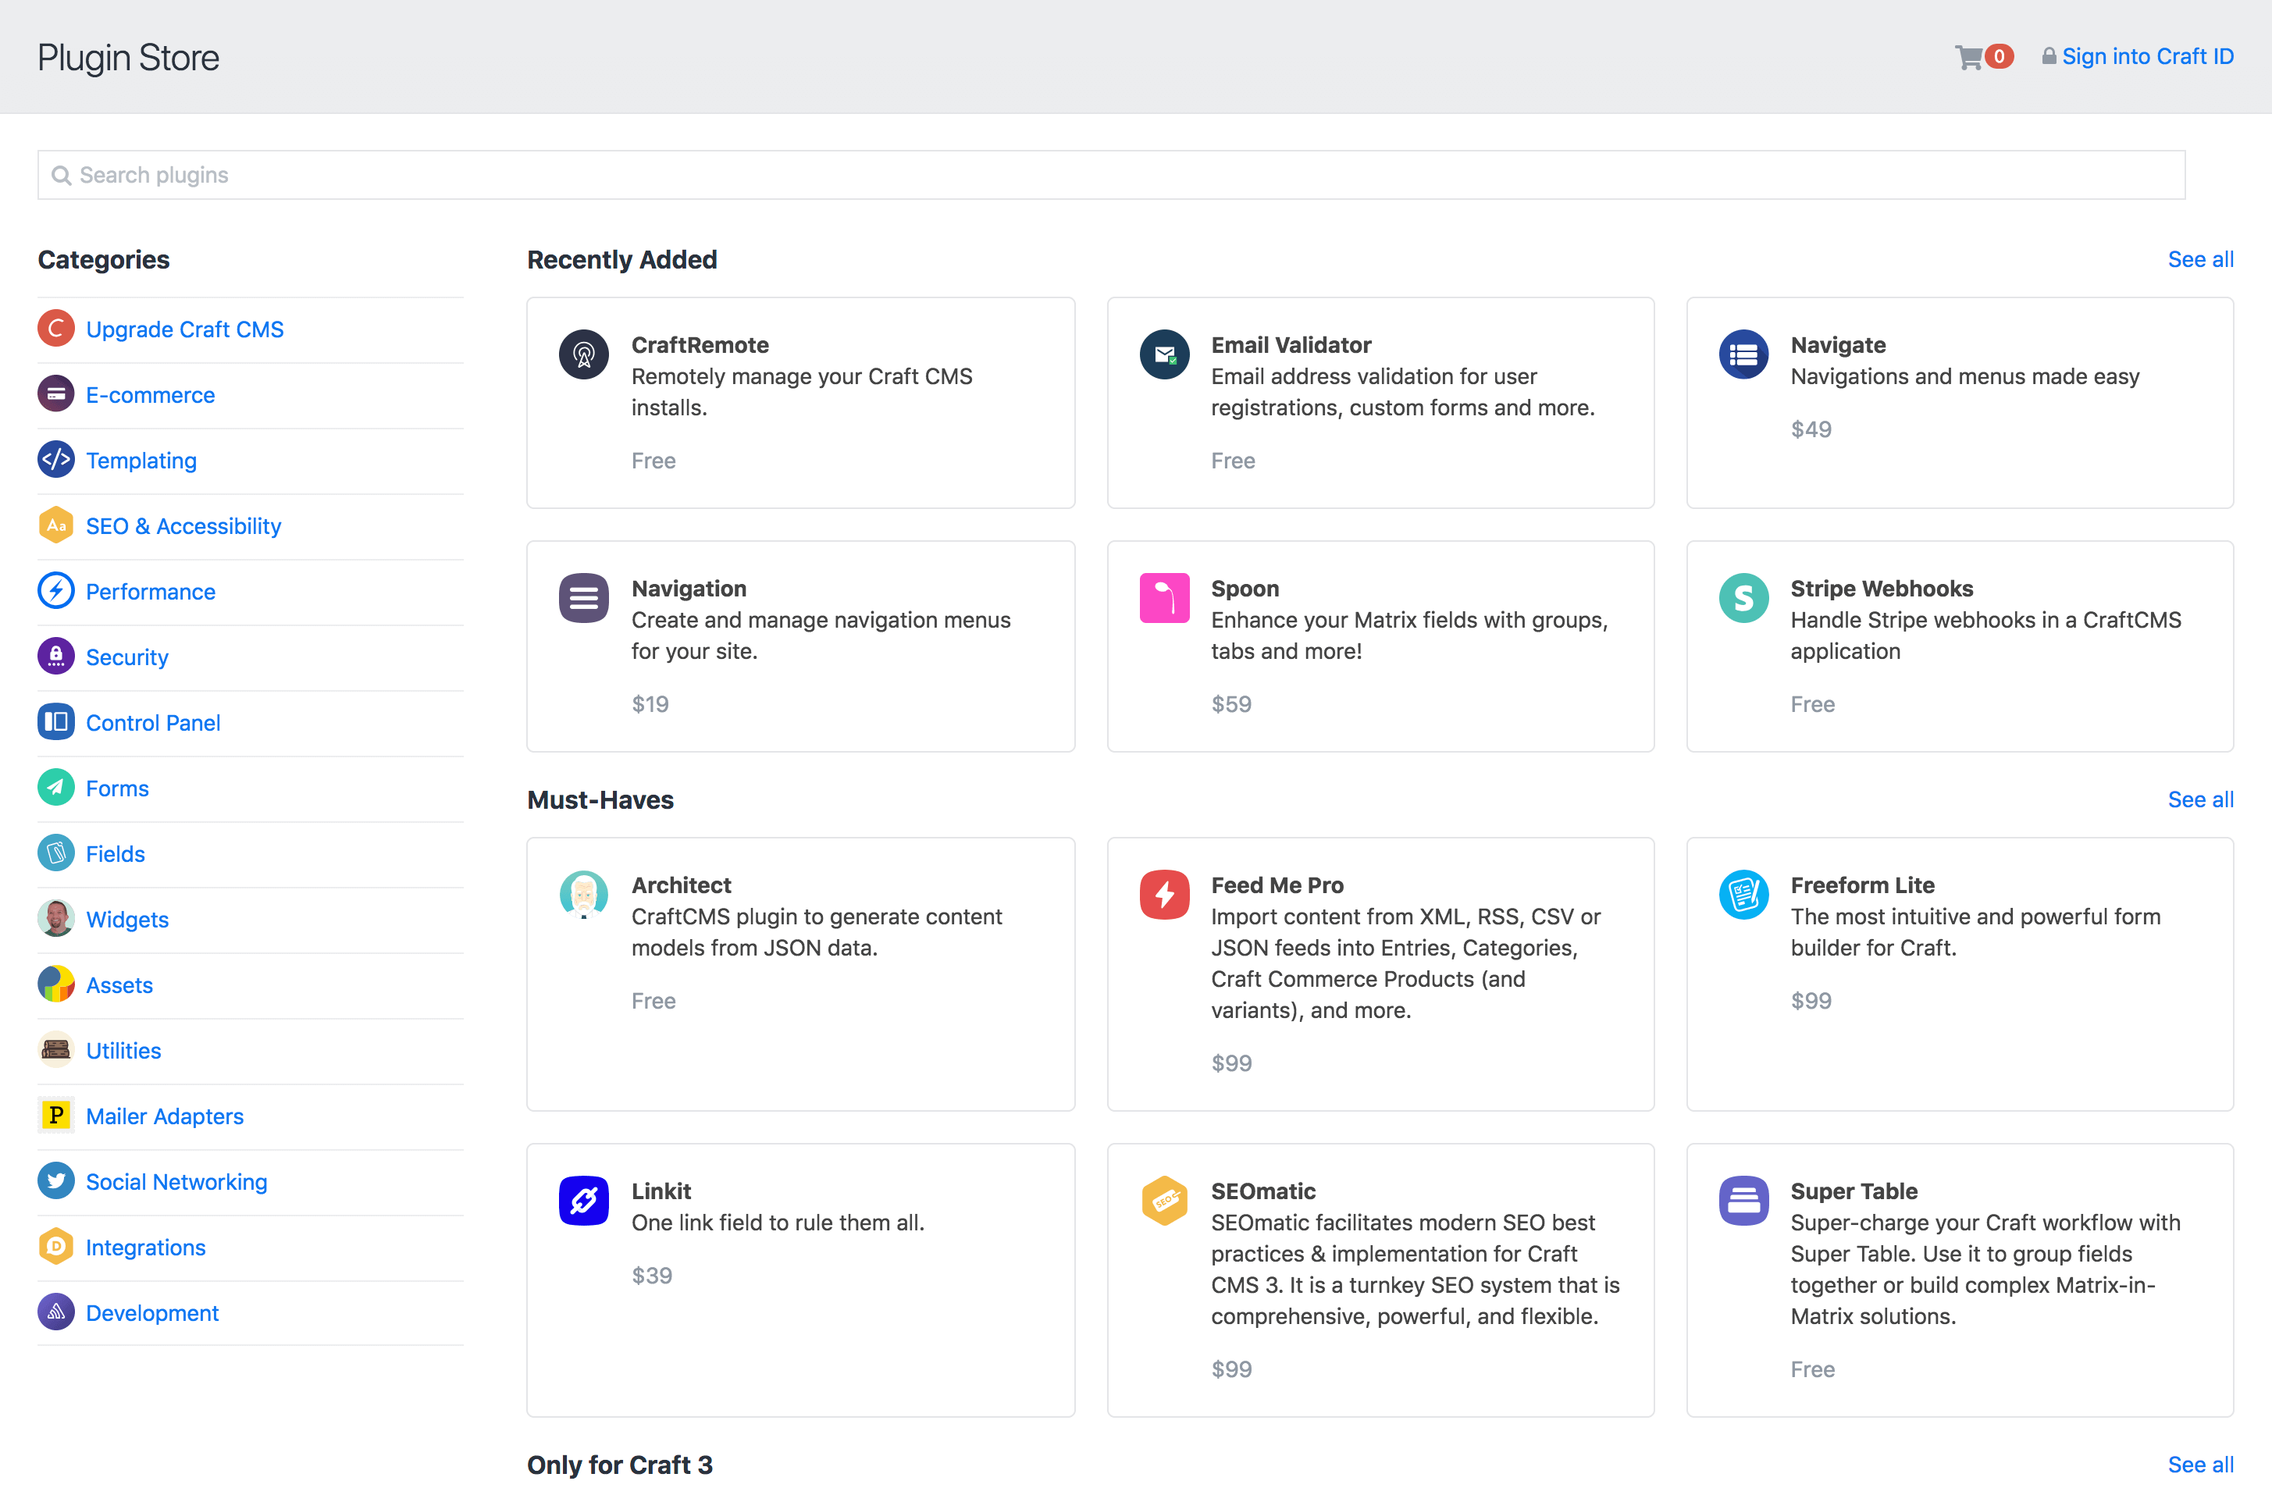
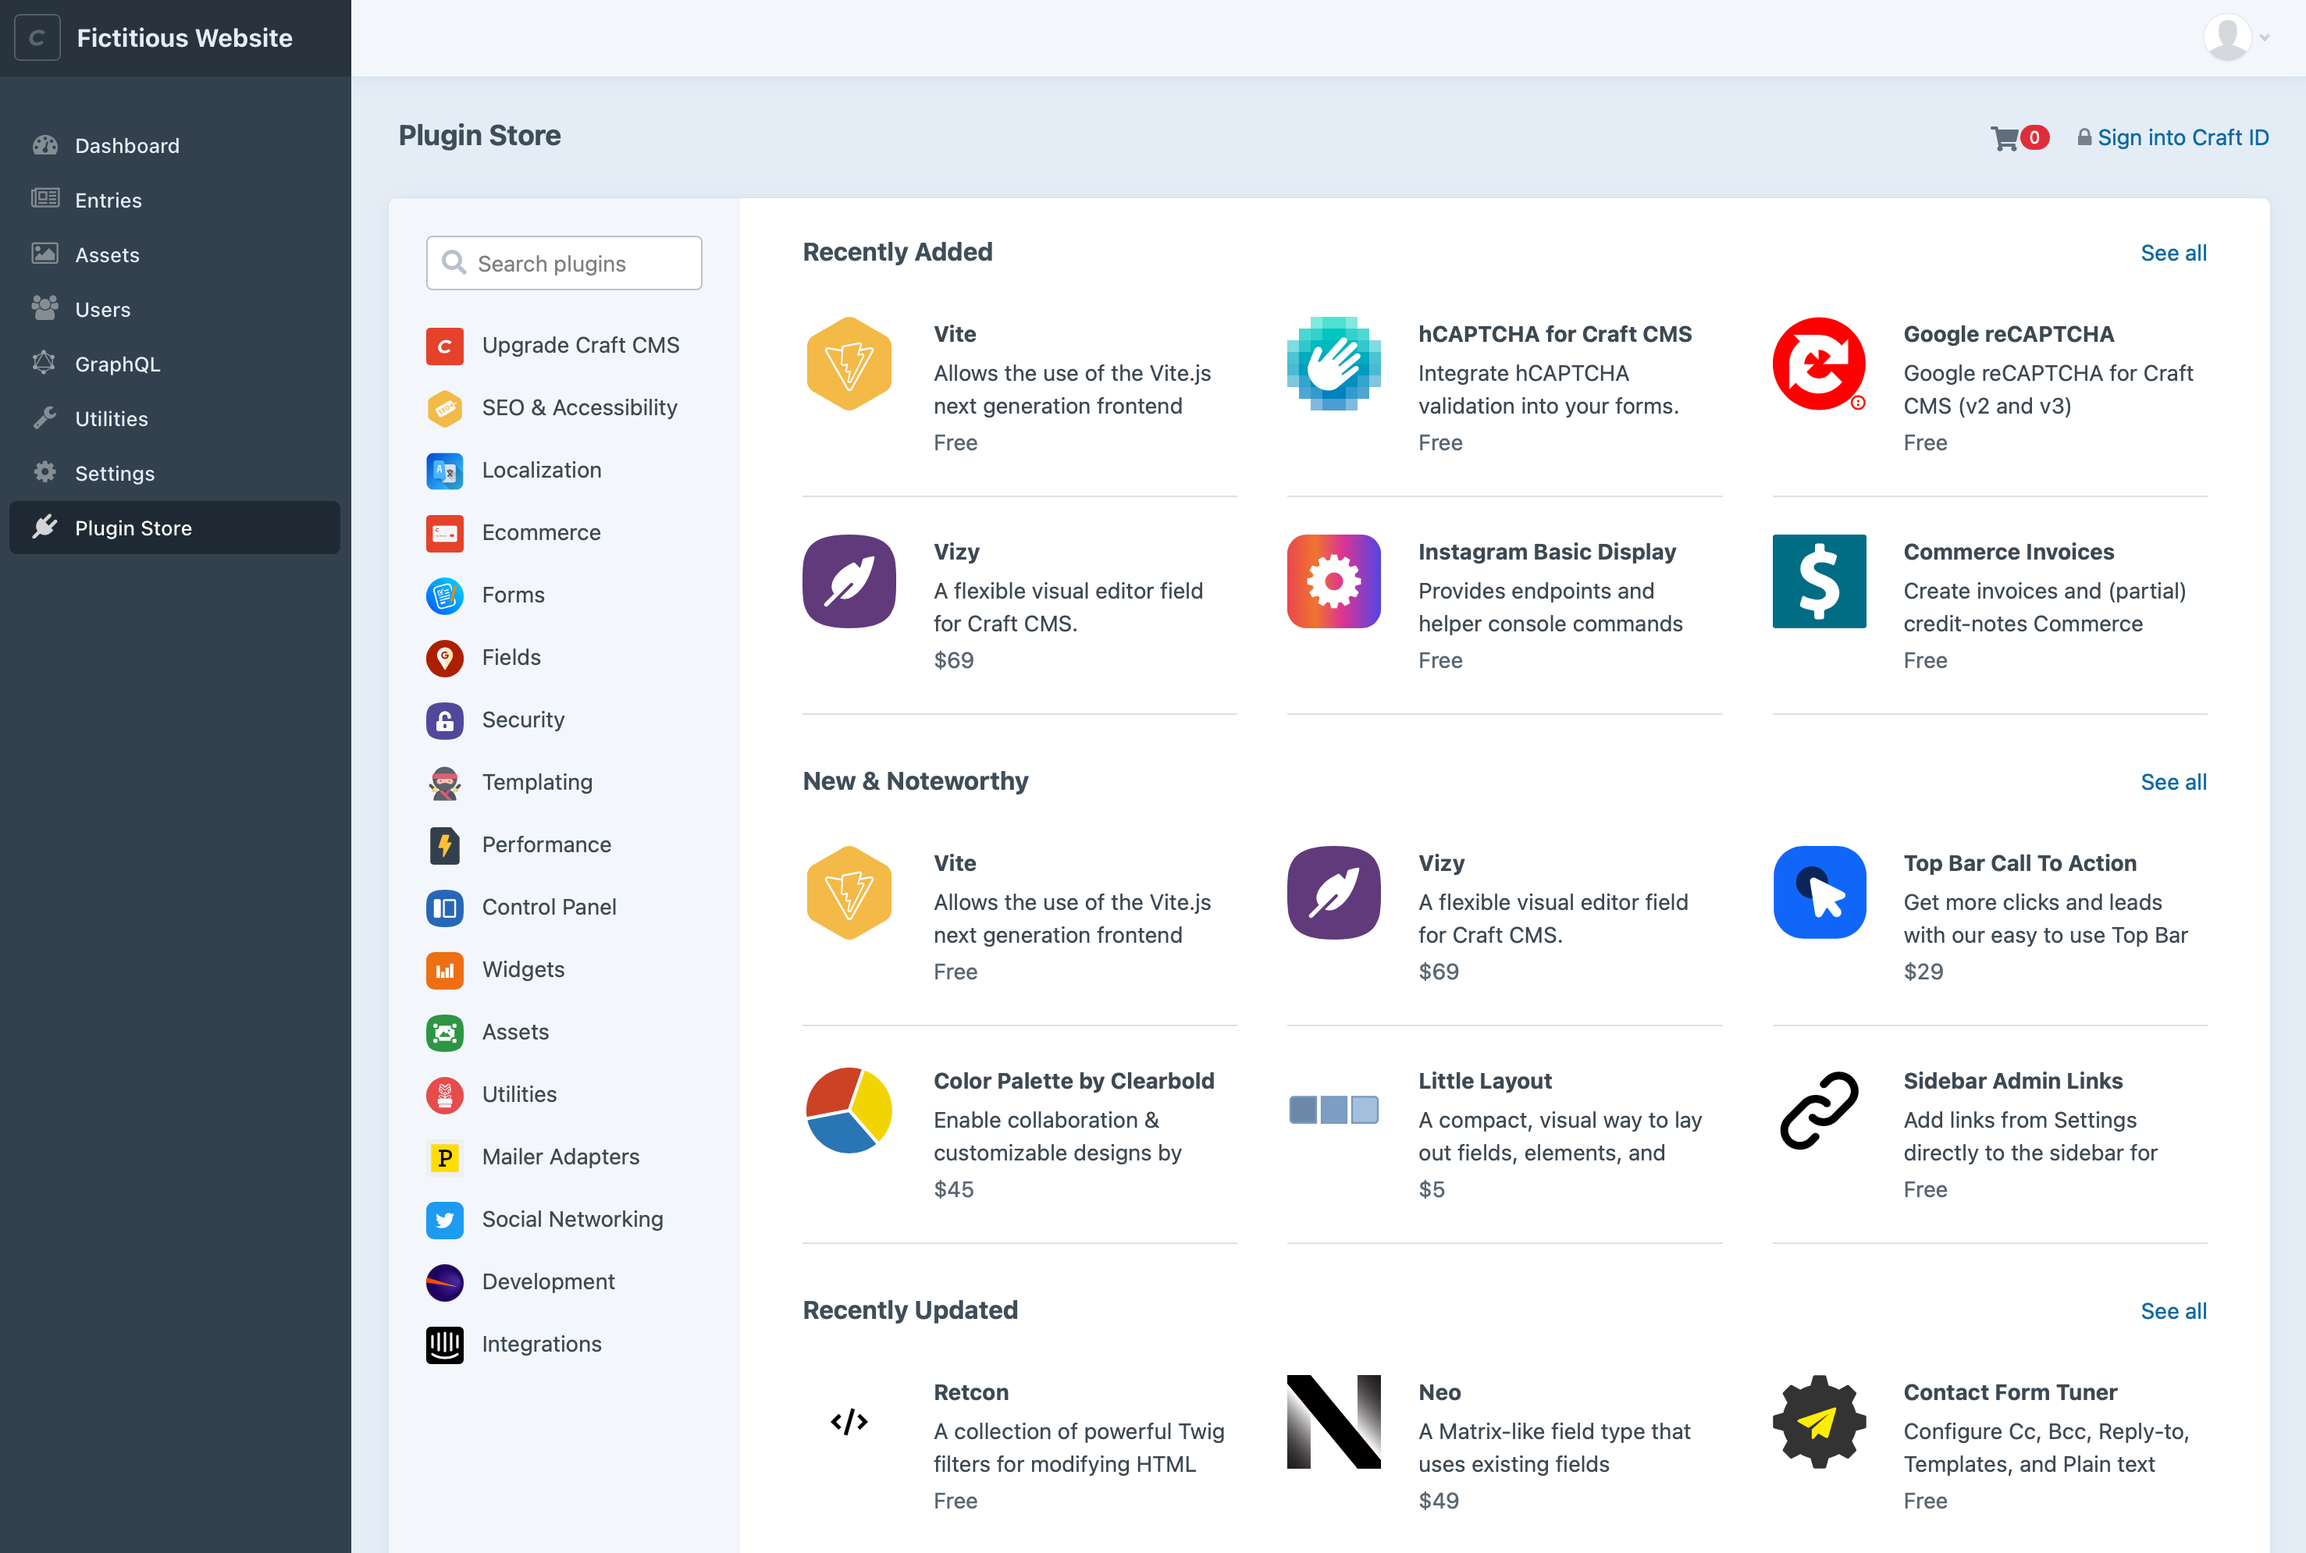
Update Plugins page.
- Update references and screenshots.
- Include note about updating commercial plugin license keys.

diff --git a/docs/3.x/plugins.md b/docs/3.x/plugins.md
@@ -1,46 +1,56 @@
 # Plugins
 
-::: tip
-If you’re looking for plugin _development_ documentation, check out the [Extending Craft](extend/README.md) section.
-:::
-
 Plugins extend Craft’s core functionality. They can introduce new Dashboard widgets, field types, control panel sections, Twig templating features, workflow actions, and more.
+
+::: tip
+If you’re looking for documentation on plugin _development_, check out [Extending Craft](extend/README.md).
+:::
 
 ## The Plugin Store
 
-Craft’s control panel features a Plugin Store, where you can browse through hundreds of free and commercial plugins, install them with a single click, and pay for them.
+Craft’s control panel features a Plugin Store where you can browse through hundreds of free and commercial plugins, install them with a single click, and purchase licenses.
 
-To access the Plugin Store, click on the “Plugin Store” item in Craft’s control panel navigation. From there you can browse through the various plugin categories and curated lists to discover new plugins.
+::: tip
+If you’ve disallowed admin changes in production, you will only be able to install plugins from the control panel in your local development environment.
+:::
+
+To access the Plugin Store from the control panel, choose **Plugin Store** from the main navigation. From there you can browse through the various plugin categories and curated lists to discover new plugins.
 
 ![The Craft Plugin Store](./images/plugin-store.png)
 
-When you click on a plugin, a modal window will open with details about the plugin, including a long description and screenshots.
+Choose any plugin to learn more about its features, pricing, documentation, version history, and see screenshots of it in action.
 
-![A plugin’s modal window within the Plugin Store](./images/plugin-store-plugin.png)
+![Plugin Store plugin detail page](./images/plugin-store-plugin.png)
 
 ## Installing Free Plugins
 
-Free plugins can be installed by clicking the “Install” button. You’ll then be taken to the plugin installer page, which will keep you updated with Craft’s status as it works through the installation.
+Free plugins can be installed by choosing **Install** from the plugin’s detail page. You’ll be taken to the plugin installer page, which will keep you updated with Craft’s status as it works through the installation.
 
 ## Trialing Commercial Plugins
 
-Commercial plugins can be installed as a trial by clicking the “Try” button, if Craft is running on a development domain. You’ll then be taken to the plugin installer page, which will keep you updated with Craft’s status as it works through the installation.
+If Craft is running on a development domain or in a local development environment, you can try out any commercial plugin for as long as you’d like by choosing the **Try** button from its detail page. You’ll be taken to the plugin installer page, which will keep you updated with Craft’s status as it works through the installation.
 
 ## Buying Commercial Plugins
 
-If you have tried a commercial plugin and are ready to buy it, return to the Plugin Store and click on the Cart icon in the header area. You should see your plugin listed in the “Active Trials” section of the Cart modal. Click the “Add to cart” button  to add the plugin to your cart, and then proceed with checkout.
+If you’ve tried a commercial plugin and are ready to purchase a license, return to the Plugin Store and choose the cart icon in the header area. The plugin should be listed in the cart’s **Active Trials** section. Choose **Add to cart** to add the plugin to your cart and proceed with checkout.
 
 Once you’ve completed the checkout process, your plugin installation will automatically become licensed.
 
+::: tip
+If you purchase a plugin license separately from a Craft install or need to update a license key, visit **Settings** → **Plugins** in the relevant site’s control panel. From that listing, you can enter a new key or environment variable placeholder for any commercial plugin.
+
+![Changing a plugin license key](./images/changing-plugin-license-key.gif)
+:::
+
 ## Managing Plugin Licenses
 
-You can manage all of your plugin licenses from your [Craft ID](https://id.craftcms.com/) account, under Licenses → Plugins
+You can manage all your plugin licenses from your [Craft ID](https://id.craftcms.com/) account, under **Licenses** → **Plugins**
 
 If you don’t have a Craft ID account yet, you can create one by going to [id.craftcms.com/register](https://id.craftcms.com/register).
 
-Any plugin licenses that were purchased with the same email address as your Craft ID account will automatically be added to your account.
+Any plugin licenses purchased with the same email address as your Craft ID account will automatically be added to your account.
 
-If you have a plugin license that isn’t showing up, go to Licenses → Claim License. You can enter its license key manually, or if you know the email address that was used for purchase, you can enter it in the “Claim licenses by email address” section. After verifying that you own the email address, any unclaimed licenses associated with that email address will be added to your account.
+If you have a plugin license that isn’t showing up, visit **Licenses** → **Claim License**. You can enter its license key manually, or if you know the email address that was used for purchase, you can enter it in the **Claim licenses by email address** section. After verifying ownership of the email address, any unclaimed licenses associated with that email address will be added to your account.
 
 ### Safeguarding Plugin License Keys
 
@@ -50,7 +60,7 @@ If you were to create a `MY_PLUGIN_KEY` environment variable, for example, you c
 
 ## Transferring Plugin Licenses
 
-To transfer a plugin license to someone else’s Craft ID account, log into your Craft ID account, and click on the license under Licenses → Plugins, and then click the “Release License” button to release it from your account. Then the other person will be able to claim the license for themselves from the Licenses → Claim License page of their Craft ID account.
+To transfer a plugin license to someone else’s Craft ID account, log into your Craft ID account, choose the license under **Licenses** → **Plugins**, and choose the **Release License** to release it from your account. Another person will then be able to claim the license for themself from the **Licenses** → **Claim License** page of their Craft ID account.
 
 ## Commercial Plugin Licensing
 
@@ -69,4 +79,4 @@ Together, these rules make plugin licensing safe and predictable for customers, 
 
 We don’t impose any specific support requirements on plugin vendors. You will need to check with them to learn about their support policies, so you know what to expect.
 
-If you feel that a plugin vendor isn’t providing a reasonable level of support for a commercial plugin license, please send and email to <support@craftcms.com> about it.
+If you feel that a plugin vendor isn’t providing a reasonable level of support for a commercial plugin license, please let us know by emailing <support@craftcms.com> and letting us know about the situation.
